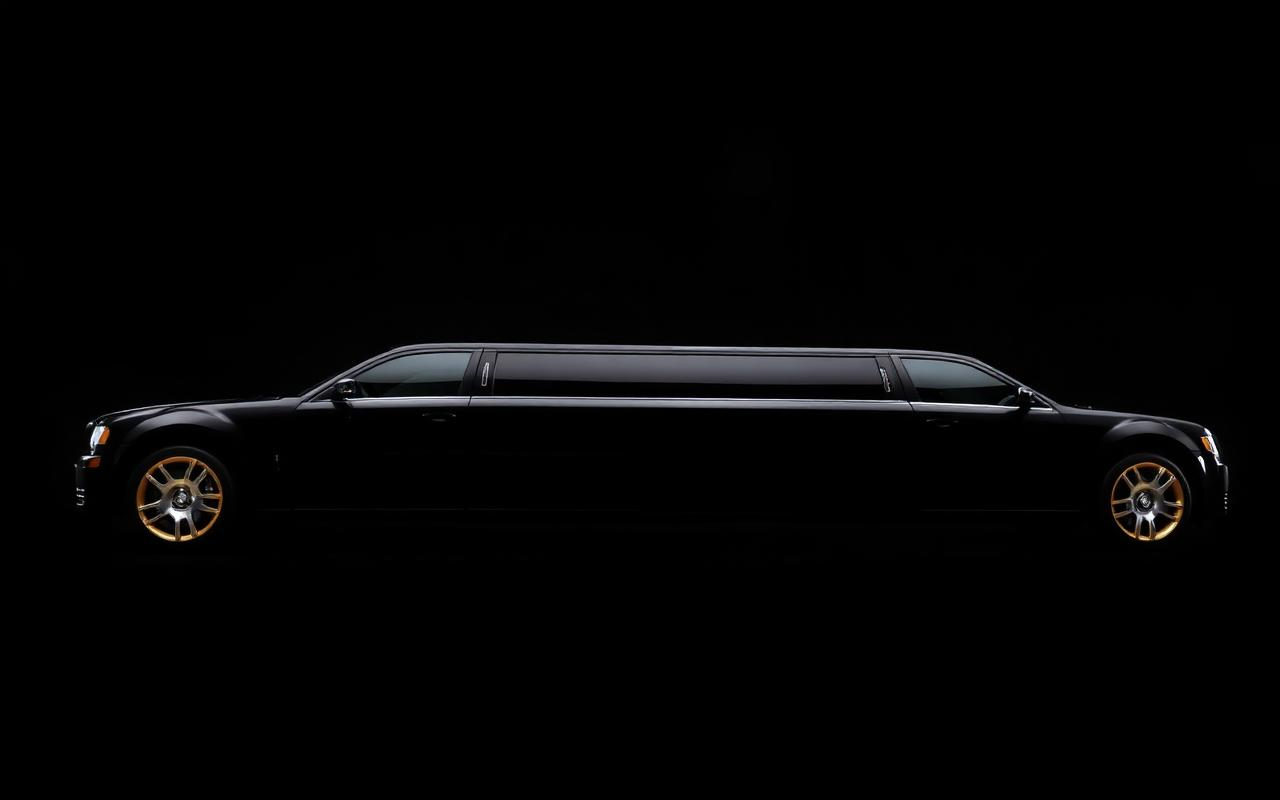
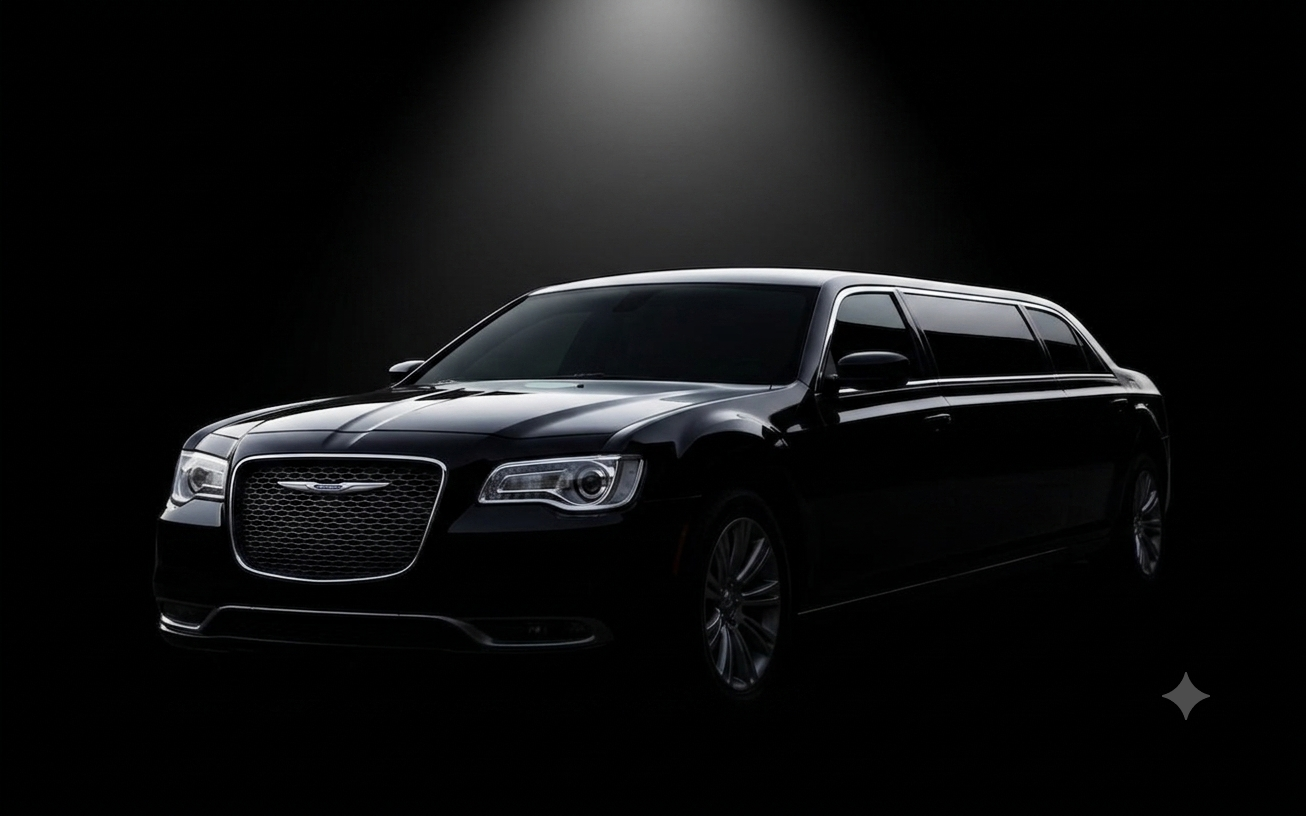
update changes

diff --git a/frontend/src/routes/_site.index.tsx b/frontend/src/routes/_site.index.tsx
@@ -26,7 +26,7 @@ const services = [
 
 const fleet = [
   { img: suv, name: "Executive SUV", pax: "1–6 Passengers", model: "Cadillac GMC Yukon XL" },
-  { img: sedan, name: "Luxury Sedan", pax: "1–3 Passengers", model: "Mercedes-Benz S-Class" },
+  // { img: sedan, name: "Luxury Sedan", pax: "1–3 Passengers", model: "Mercedes-Benz S-Class" },
   { img: stretch, name: "Stretch Limousine", pax: "1–10 Passengers", model: "Chrysler 300 Stretch" },
   { img: sprinter, name: "Luxury Sprinter", pax: "1–14 Passengers", model: "Mercedes Sprinter" },
 ];
@@ -77,10 +77,10 @@ function Home() {
                 SAY Limousine offers an unrivaled chauffeur experience — impeccable vehicles, world-class drivers, and the discretion you expect from a true luxury service.
               </p>
               <div className="mt-10 flex flex-wrap gap-4">
-                <Link to="/booking" className="group inline-flex items-center gap-3 bg-gold text-primary-foreground px-8 py-4 text-xs uppercase tracking-[0.3em] hover:bg-gold-light transition-colors">
+                <Link to="/booking" className="group inline-flex items-center gap-3 bg-gold rounded-lg text-primary-foreground px-8 py-4 text-xs uppercase tracking-[0.3em] hover:bg-gold-light transition-colors">
                   Reserve Now <ArrowRight className="size-4 group-hover:translate-x-1 transition-transform" />
                 </Link>
-                <Link to="/fleet" className="group inline-flex items-center gap-3 border border-gold/60 text-foreground px-8 py-4 text-xs uppercase tracking-[0.3em] hover:bg-gold/10 hover:border-gold transition-all">
+                <Link to="/fleet" className="group inline-flex items-center rounded-lg gap-3 border border-gold/60 text-foreground px-8 py-4 text-xs uppercase tracking-[0.3em] hover:bg-gold/10 hover:border-gold transition-all">
                   View Our Fleet
                 </Link>
               </div>
@@ -156,7 +156,7 @@ function Home() {
               View All Vehicles <ArrowRight className="size-4" />
             </Link>
           </div>
-          <div className="mt-14 grid grid-cols-1 md:grid-cols-2 lg:grid-cols-4 gap-6">
+          <div className="mt-14 grid grid-cols-1 md:grid-cols-2 lg:grid-cols-3 gap-6">
             {fleet.map((v) => (
               <div key={v.name} className="group relative overflow-hidden border border-border bg-background">
                 <div className="aspect-[4/3] overflow-hidden">
@@ -204,7 +204,7 @@ function Home() {
                 </li>
               ))}
             </ul>
-            <Link to="/about" className="mt-10 inline-flex items-center gap-3 border border-gold/60 px-8 py-4 text-xs uppercase tracking-[0.3em] hover:bg-gold/10 transition-all">
+            <Link to="/about" className="mt-10 inline-flex items-center rounded-lg gap-3 border border-gold/60 px-8 py-4 text-xs uppercase tracking-[0.3em] hover:bg-gold/10 transition-all">
               Our Story <ArrowRight className="size-4" />
             </Link>
           </div>
@@ -244,8 +244,8 @@ function Home() {
           <h2 className="mt-6 text-5xl md:text-6xl font-display">Your Chauffeur <span className="font-script gradient-gold-text">Awaits</span></h2>
           <p className="mt-6 text-muted-foreground">Reserve in under 60 seconds. Concierge available 24/7 by phone.</p>
           <div className="mt-10 flex flex-wrap justify-center gap-4">
-            <Link to="/booking" className="bg-gold text-primary-foreground px-10 py-4 text-xs uppercase tracking-[0.3em] hover:bg-gold-light transition-colors">Book Online</Link>
-            <a href="tel:[phone redacted]" className="border border-gold/60 px-10 py-4 text-xs uppercase tracking-[0.3em] hover:bg-gold/10 transition-all">Call [phone redacted]</a>
+            <Link to="/booking" className="bg-gold text-primary-foreground px-10 py-4 text-xs uppercase tracking-[0.3em] hover:bg-gold-light transition-colors rounded-lg">Book Online</Link>
+            <a href="tel:[phone redacted]" className="border border-gold/60 px-10 py-4 text-xs uppercase tracking-[0.3em] hover:bg-gold/10 transition-all rounded-lg">Call [phone redacted]</a>
           </div>
         </div>
       </section>

diff --git a/frontend/src/components/site/Navbar.tsx b/frontend/src/components/site/Navbar.tsx
@@ -64,7 +64,7 @@ export function Navbar() {
           </a>
           <Link
             to="/booking"
-            className="relative overflow-hidden inline-flex items-center justify-center px-5 py-2.5 text-xs uppercase tracking-[0.22em] text-primary-foreground bg-gold hover:bg-gold-light transition-colors"
+            className="relative overflow-hidden inline-flex items-center justify-center px-5 py-2.5 text-xs uppercase tracking-[0.22em] text-primary-foreground bg-gold hover:bg-gold-light transition-colors rounded-lg"
           >
             Book Now
           </Link>
@@ -76,14 +76,14 @@ export function Navbar() {
       </div>
 
       {open && (
-        <div className="lg:hidden border-t border-border bg-background/95 backdrop-blur-md">
+        <div className="lg:hidden border-t border-border  bg-background/95 backdrop-blur-md">
           <nav className="flex flex-col px-6 py-4 gap-3">
             {nav.map((item) => (
-              <Link key={item.to} to={item.to} onClick={() => setOpen(false)} className="text-sm uppercase tracking-widest text-foreground/85 hover:text-gold py-2">
+              <Link key={item.to} to={item.to} onClick={() => setOpen(false)} className="text-sm  uppercase tracking-widest text-foreground/85 hover:text-gold py-2">
                 {item.label}
               </Link>
             ))}
-            <Link to="/booking" onClick={() => setOpen(false)} className="mt-2 inline-flex justify-center bg-gold text-primary-foreground py-3 text-xs uppercase tracking-widest">
+            <Link to="/booking" onClick={() => setOpen(false)} className="mt-2  inline-flex justify-center bg-gold text-primary-foreground py-3 text-xs uppercase tracking-widest">
               Book Now
             </Link>
           </nav>

diff --git a/frontend/src/routes/_site.fleet.tsx b/frontend/src/routes/_site.fleet.tsx
@@ -11,8 +11,8 @@ export const Route = createFileRoute("/_site/fleet")({
 });
 
 const fleet = [
-  { img: sedan, name: "Luxury Sedan", model: "Mercedes-Benz S-Class", pax: 3, lug: 3, desc: "The pinnacle of executive comfort. Whisper-quiet, beautifully appointed, and effortlessly powerful." },
-  { img: suv, name: "Executive Yakoon xl", model: "Cadillac Escalade", pax: 6, lug: 6, desc: "Commanding presence with first-class space. Perfect for VIPs, families and executives on the move." },
+  // { img: sedan, name: "Luxury Sedan", model: "Mercedes-Benz S-Class", pax: 3, lug: 3, desc: "The pinnacle of executive comfort. Whisper-quiet, beautifully appointed, and effortlessly powerful." },
+  { img: suv, name: "Executive Yukon XL", model: "Cadillac Escalade", pax: 6, lug: 6, desc: "Commanding presence with first-class space. Perfect for VIPs, families and executives on the move." },
   { img: stretch, name: "Stretch Limousine", model: "Chrysler 300 Stretch", pax: 10, lug: 4, desc: "Iconic glamour with bar, mood lighting and premium audio. The unforgettable arrival." },
   { img: sprinter, name: "Luxury Sprinter", model: "Mercedes-Benz Sprinter", pax: 14, lug: 14, desc: "Boardroom-on-wheels with reclining captain's chairs and conference seating for groups and roadshows." },
 ];
@@ -51,7 +51,7 @@ function Fleet() {
                     </div>
                   ))}
                 </div>
-                <Link to="/booking" className="mt-8 inline-flex items-center gap-3 bg-gold text-primary-foreground px-7 py-3.5 text-xs uppercase tracking-[0.3em] hover:bg-gold-light transition-colors">
+                <Link to="/booking" className="mt-8 inline-flex items-center rounded-lg gap-3 bg-gold text-primary-foreground px-7 py-3.5 text-xs uppercase tracking-[0.3em] hover:bg-gold-light transition-colors">
                   Reserve This Vehicle <ArrowRight className="size-4" />
                 </Link>
               </div>

diff --git a/frontend/src/components/site/BookingForm.tsx b/frontend/src/components/site/BookingForm.tsx
@@ -329,7 +329,7 @@ export function BookingForm({ compact = false, initialValues, submitLabel, succe
       <button
         type="submit"
         disabled={isSubmitting}
-        className="mt-8 group relative w-full overflow-hidden bg-gold text-primary-foreground py-4 text-xs uppercase tracking-[0.3em] font-medium hover:bg-gold-light transition-colors"
+        className="mt-8 group relative w-full rounded-lg overflow-hidden bg-gold text-primary-foreground py-4 text-xs uppercase tracking-[0.3em] font-medium hover:bg-gold-light transition-colors"
       >
         <span className="relative z-10">{isSubmitting ? "Sending..." : (submitLabel ?? "Reserve My Chauffeur")}</span>
         <span className="absolute inset-0 shimmer opacity-60" />
@@ -338,7 +338,7 @@ export function BookingForm({ compact = false, initialValues, submitLabel, succe
         href="https://wa.me/17134085577"
         target="_blank"
         rel="noopener noreferrer"
-        className="mt-8 group relative w-full overflow-hidden bg-[#25D366] hover:bg-[#1ebe5d] text-white py-4 text-xs uppercase tracking-[0.3em] font-medium transition-all duration-300 shadow-lg hover:shadow-green-500/30 flex items-center justify-center"
+        className="mt-8 group relative w-full rounded-lg overflow-hidden bg-[#25D366] hover:bg-[#1ebe5d] text-white py-4 text-xs uppercase tracking-[0.3em] font-medium transition-all duration-300 shadow-lg hover:shadow-green-500/30 flex items-center justify-center"
       >
         <span className="absolute inset-0 shimmer opacity-60 pointer-events-none" />
         <span className="relative z-10">

diff --git a/frontend/src/routes/_site.about.tsx b/frontend/src/routes/_site.about.tsx
@@ -18,7 +18,7 @@ function About() {
 
       <section className="py-24">
         <div className="mx-auto max-w-7xl px-6 grid lg:grid-cols-2 gap-16 items-center">
-          <img src={interior} alt="Luxury interior" loading="lazy" className="w-full aspect-[4/5] object-cover border border-border" />
+          <img src={interior} alt="Luxury interior" loading="lazy" className="w-full rounded-lg aspect-[4/5] object-cover border border-border" />
           <div>
             <h2 className="text-4xl md:text-5xl font-display leading-tight">Where Every Ride <span className="font-script gradient-gold-text">Tells A Story</span></h2>
             <p className="mt-6 text-muted-foreground leading-relaxed">
@@ -64,7 +64,7 @@ function About() {
       </section>
 
       <section className="relative py-32">
-        <img src={hero} alt="" className="absolute inset-0 w-full h-full object-cover opacity-30" />
+        <img src={hero} alt="" className="absolute  inset-0 w-full h-full object-cover opacity-30" />
         <div className="absolute inset-0 bg-background/70" />
         <div className="relative mx-auto max-w-3xl px-6 text-center">
           <span className="divider-gold">The Promise</span>

diff --git a/frontend/src/routes/_site.contact.tsx b/frontend/src/routes/_site.contact.tsx
@@ -92,7 +92,7 @@ function Contact() {
                 {errors.message && <p className="text-xs text-destructive mt-1">{errors.message}</p>}
               </div>
             </div>
-            <button disabled={isSubmitting} className="mt-8 w-full bg-gold text-primary-foreground py-4 text-xs uppercase tracking-[0.3em] hover:bg-gold-light transition-colors">
+            <button disabled={isSubmitting} className="mt-8 w-full rounded-lg bg-gold text-primary-foreground py-4 text-xs uppercase tracking-[0.3em] hover:bg-gold-light transition-colors">
               {isSubmitting ? "Sending..." : "Send Message"}
             </button>
           </form>